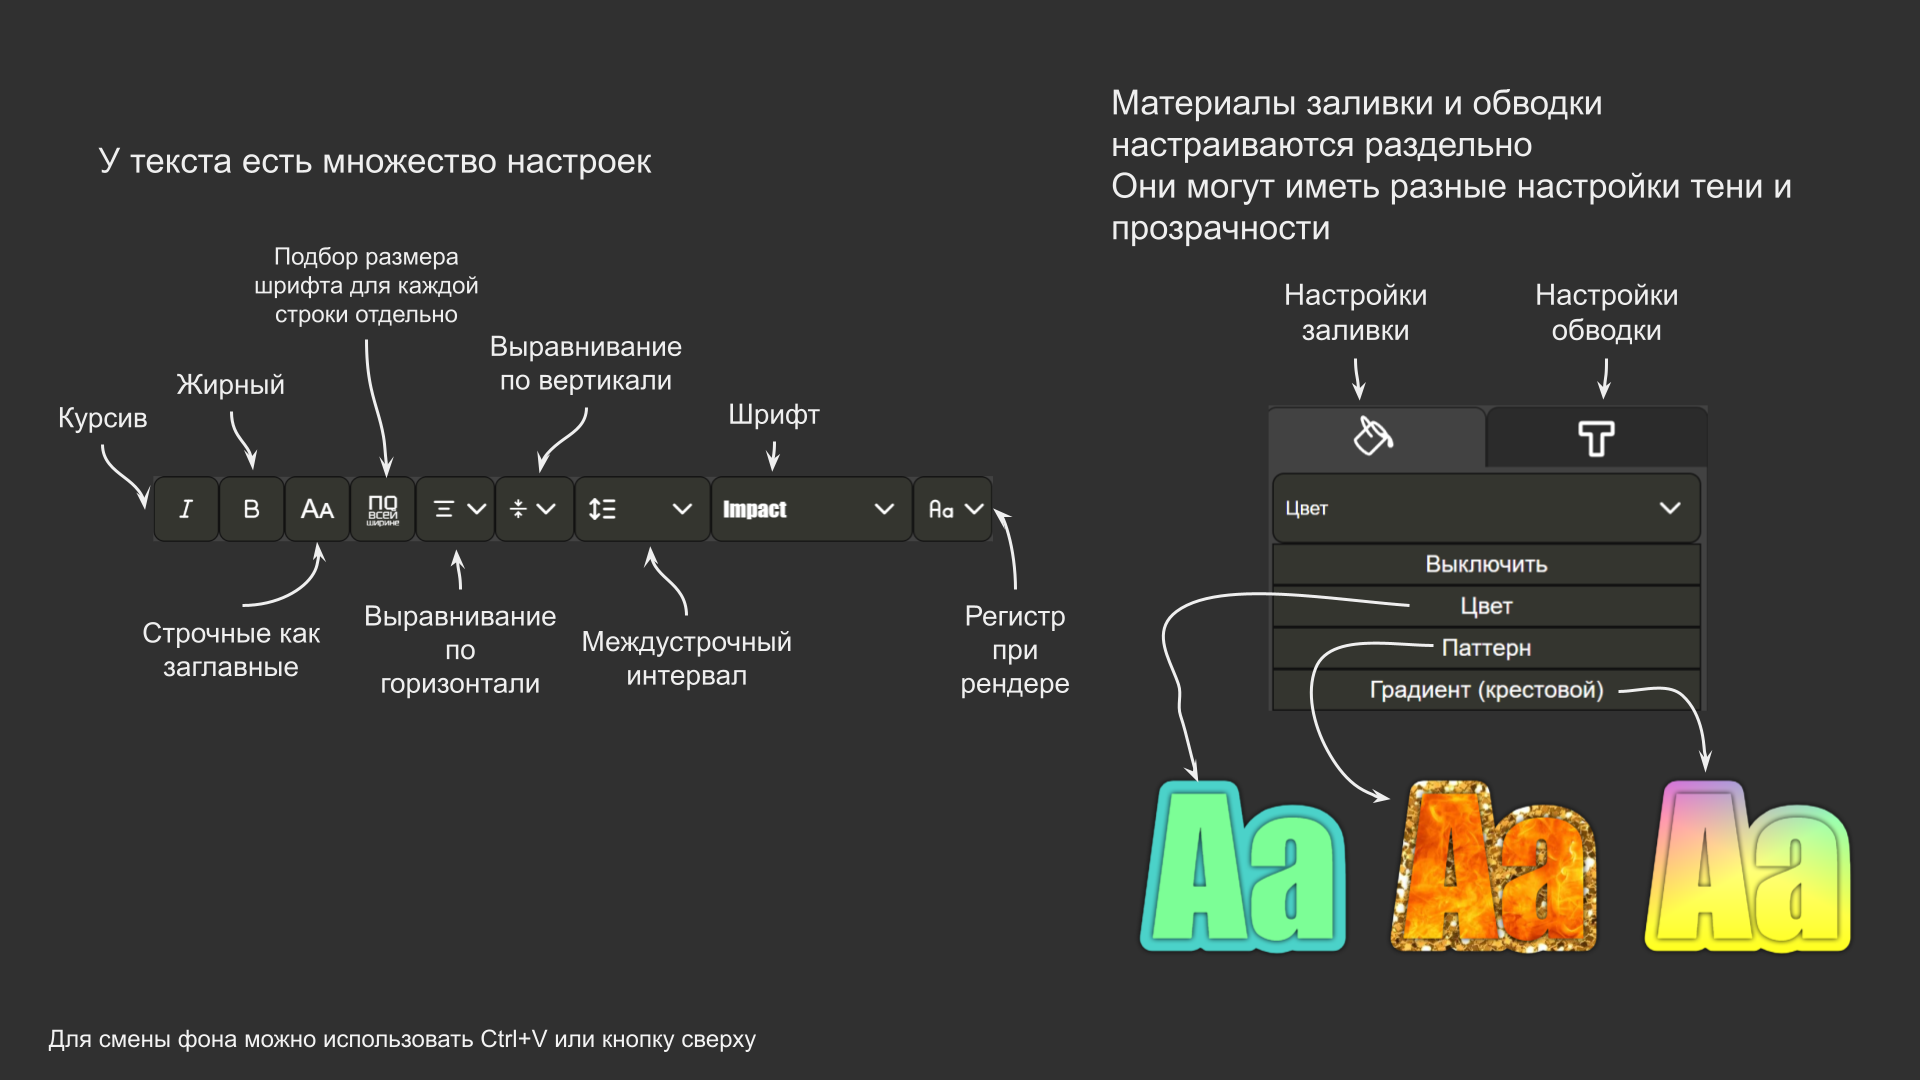
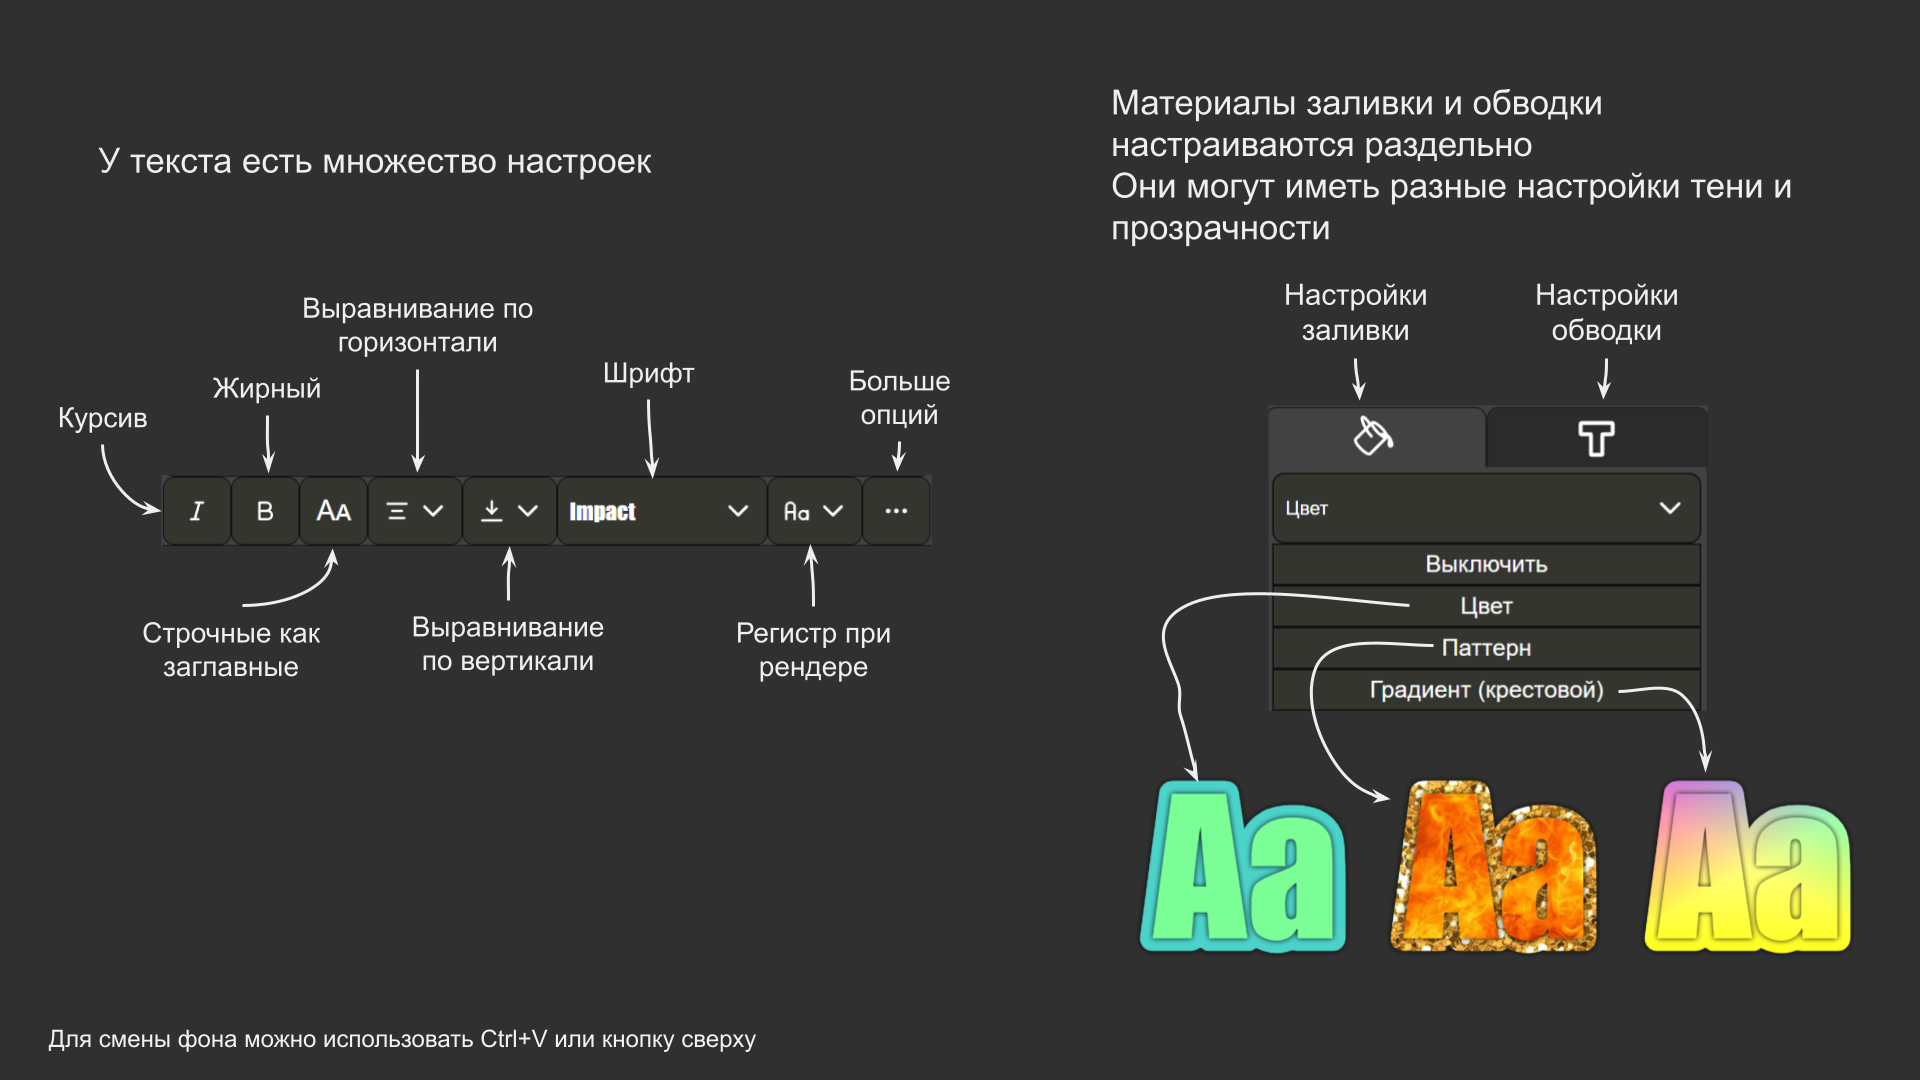
Release 0.2.10

diff --git a/src/lib/text/TextSettings.svelte b/src/lib/text/TextSettings.svelte
@@ -34,7 +34,7 @@
 	const selectCSS = {
 		height: '48px',
 		width: '100%',
-		main: 'min-width: 52px;max-width: 116px;'
+		main: 'min-width: 56px;max-width: 116px;'
 	};
 
 	export let moreSettings = false;

diff --git a/src/lib/base/InputGroup.svelte b/src/lib/base/InputGroup.svelte
@@ -1,4 +1,8 @@
-<article><slot /></article>
+<script lang="ts">
+	import { slide } from 'svelte/transition';
+</script>
+
+<article transition:slide|local><slot /></article>
 
 <style>
 	article {

diff --git a/CHANGELOG.md b/CHANGELOG.md
@@ -25,17 +25,18 @@
 
 <!-- ## [Unreleased] -->
 
-## [Unreleased]
+## [0.2.10] - 2024-09-29
 
 ### Добавлено
 
 - Теперь можно задавать фиксированный размер шрифта в пикселях или пунктах.
-- Теперь можно задавать относительный размер шрифта в долях высоты или ширины кадра.
+- Теперь можно задавать относительный размер шрифта в долях высоты кадра.
 - Теперь можно редактировать коэффициент отступа текста.
+- Больше плавных анимаций в UI.
 
 ### Изменено
 
-- Междустрочный интервал и настройки размера шрифта были перенесён под поле ввода текста.
+- Междустрочный интервал и настройки размера шрифта были спрятаны под многоточие.
 - В пресете "Субтитры" теперь используются относительные размеры и увеличен отступ.
 - Ширина в глобальном контейнере для текста теперь 90% вместо 96%
 
